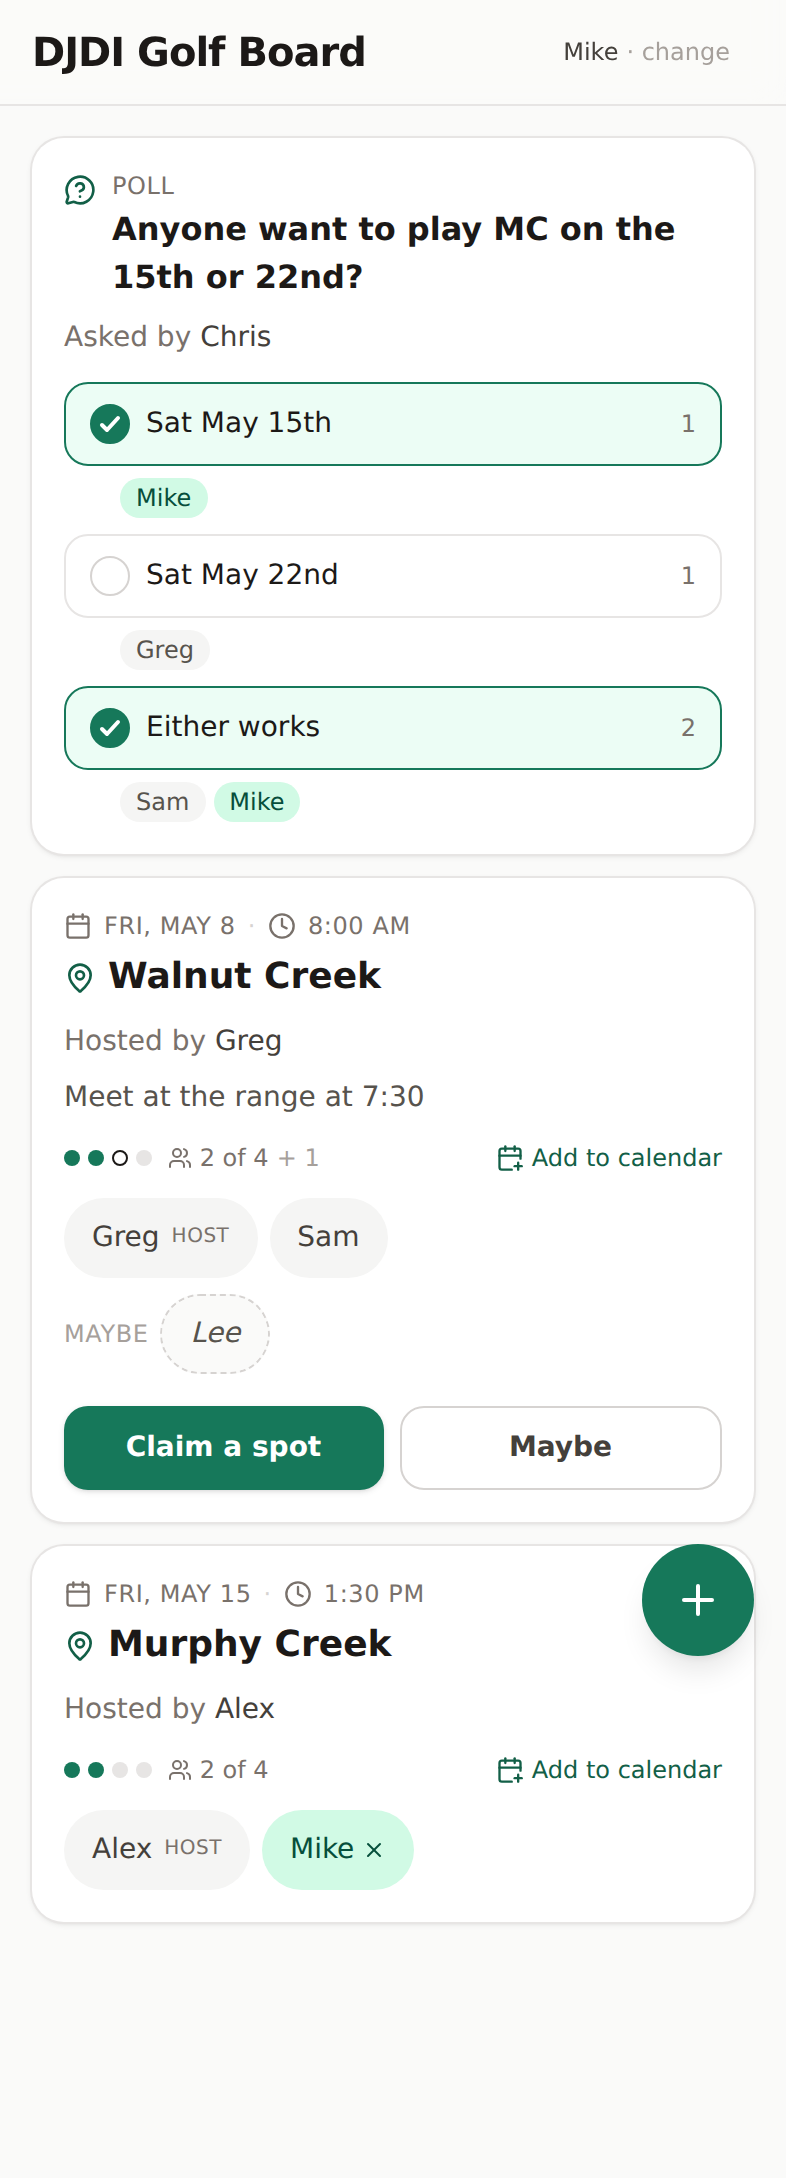
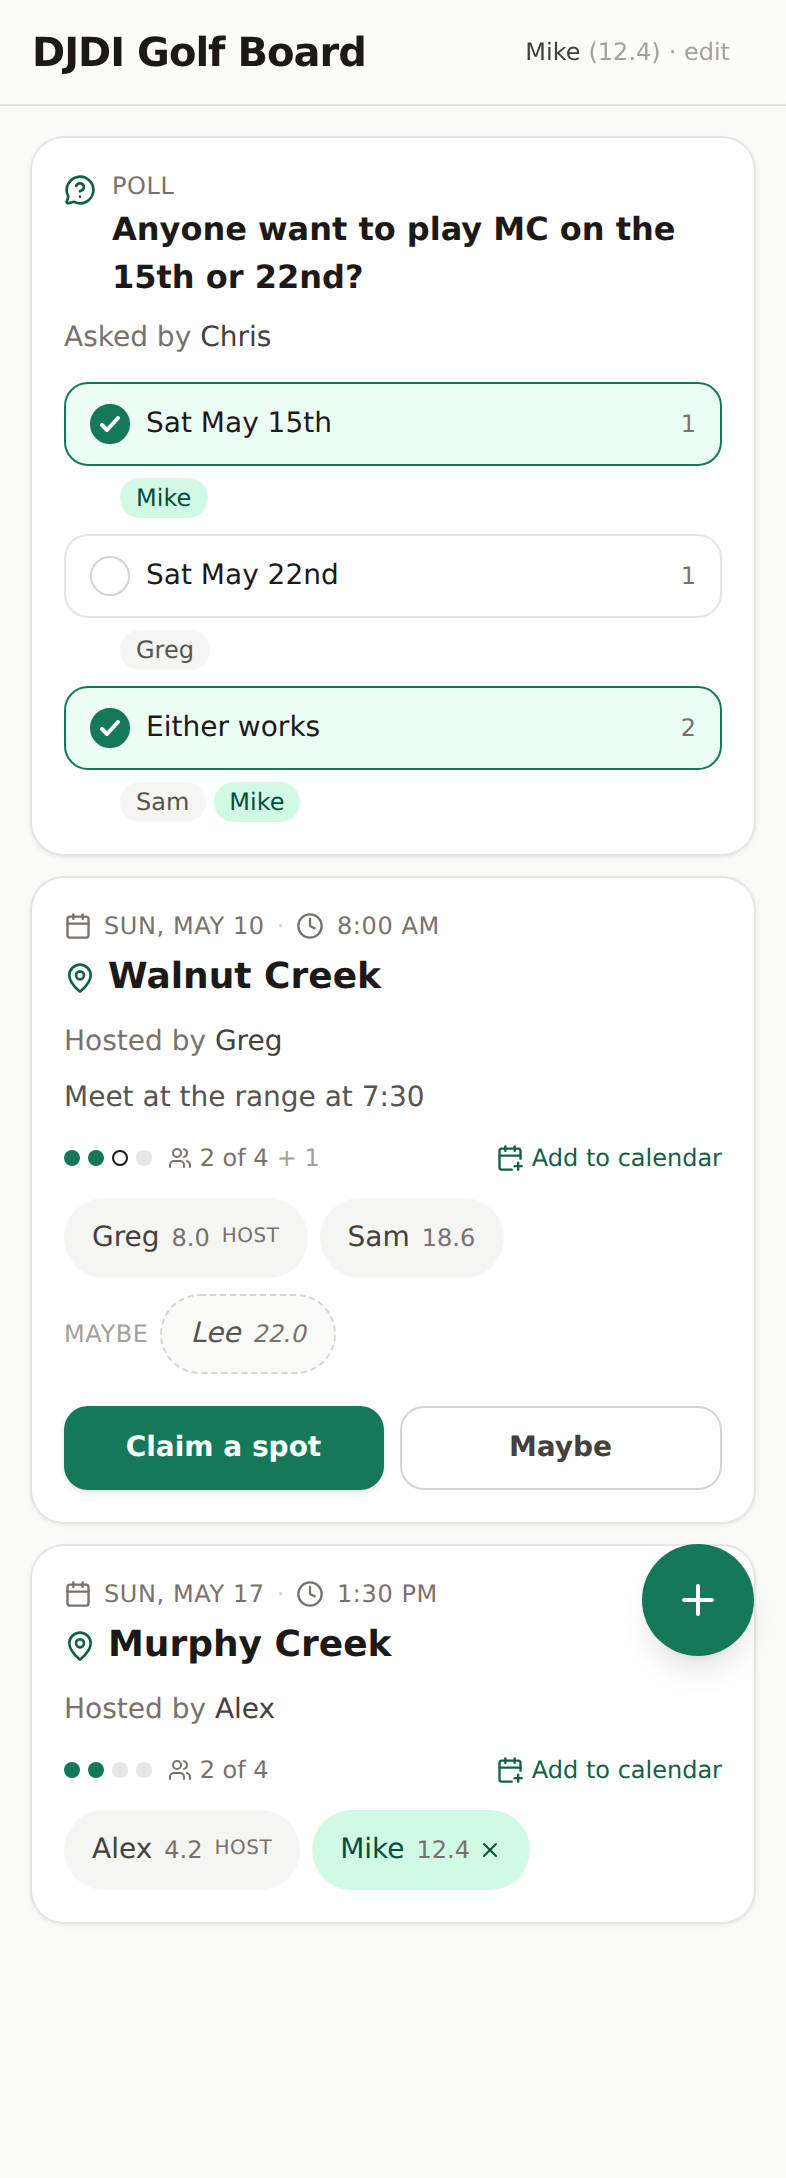
docs: Refresh screenshots for Phase 4 (handicaps, scores, standings)
Re-captures all 9 mobile screenshots after the Phase 4 features
landed. Updates SCREENSHOTS.md with two new shots:

- 08 — Standings card expanded, showing the new top-of-board
  leaderboard with handicap indices, sort chips, and a highlighted
  "me" row.
- 09 — Profile sheet open, showing the new handicap field and
  "Forget me on this device" action.

Existing shots (board / FAB / sheets / past) refresh to show the
new chip rendering ("Greg 8.0", "Sam 18.6", etc.), the renamed
header pill ("· edit" instead of "· change"), and the past cards'
new Scores block.

scripts/screenshots.ts now seeds the players table and inserts two
past tee times with full score sets so the Standings + Scores
panels actually have content. The 10th shot (record-scores sheet)
is best-effort — it consistently times out on a host-menu click in
headless mode and is wrapped in try/catch rather than blocking the
run.

https://claude.ai/code/session_0173k9V19kn8JeqqCc5oe1jH

diff --git a/scripts/screenshots.ts b/scripts/screenshots.ts
@@ -6,15 +6,25 @@ const BASE = "http://localhost:3000";
 const VIEWPORT = { width: 393, height: 852 }; // iPhone 14 Pro
 const OUT = path.resolve("screenshots");
 
-async function setNameInLocalStorage(page: import("playwright").Page, name: string) {
-  await page.evaluate((n) => {
-    localStorage.setItem("golf.coordinator.myName", n);
-  }, name);
+async function setProfileInLocalStorage(
+  page: import("playwright").Page,
+  name: string,
+  handicap: number | null
+) {
+  await page.evaluate(
+    ([n, h]) => {
+      localStorage.setItem("golf.coordinator.myName", n as string);
+      if (h != null) localStorage.setItem("golf.coordinator.myHandicap", String(h));
+      else localStorage.removeItem("golf.coordinator.myHandicap");
+    },
+    [name, handicap] as const
+  );
 }
 
-async function clearNameInLocalStorage(page: import("playwright").Page) {
+async function clearProfileInLocalStorage(page: import("playwright").Page) {
   await page.evaluate(() => {
     localStorage.removeItem("golf.coordinator.myName");
+    localStorage.removeItem("golf.coordinator.myHandicap");
   });
 }
 
@@ -50,18 +60,26 @@ async function main() {
   });
   const page = await context.newPage();
 
-  // 1. Empty state, no name
+  // 1. Empty state, no profile
   await page.goto(BASE);
-  await clearNameInLocalStorage(page);
+  await clearProfileInLocalStorage(page);
   await page.reload();
   await page.waitForSelector("text=Nothing on the board yet");
   await page.screenshot({ path: path.join(OUT, "01-empty-no-name.png") });
 
-  // 2. Empty state, with name set
-  await setNameInLocalStorage(page, "Mike");
+  // 2. Empty state, with profile set (Mike, 12.4)
+  await setProfileInLocalStorage(page, "Mike", 12.4);
   await page.reload();
   await page.waitForSelector("text=Nothing on the board yet");
   await page.screenshot({ path: path.join(OUT, "02-empty-with-name.png") });
+
+  // Seed players with handicaps so chips and standings have content.
+  await api("PUT", "/api/players/Greg", { handicap: 8.0 });
+  await api("PUT", "/api/players/Mike", { handicap: 12.4 });
+  await api("PUT", "/api/players/Sam", { handicap: 18.6 });
+  await api("PUT", "/api/players/Alex", { handicap: 4.2 });
+  await api("PUT", "/api/players/Lee", { handicap: 22.0 });
+  await api("PUT", "/api/players/Chris", { handicap: 9.5 });
 
   // Seed: a tee time and a poll
   const tt1 = await api("POST", "/api/teetimes", {
@@ -135,25 +153,74 @@ async function main() {
   await page.screenshot({ path: path.join(OUT, "06-new-poll-sheet.png"), fullPage: true });
   await page.keyboard.press("Escape");
 
-  // 7. Past tee times: insert a past row directly
+  // 7. Past tee times with scores recorded — insert two past rows directly
+  // and seed scores so the past card has a Scores block AND the standings
+  // card has content.
   const sqlite3 = await import("better-sqlite3");
   const db = new (sqlite3 as any).default("golf_coordinator.db");
   db.prepare(
-    `INSERT INTO tee_times (id, course, date, time, spots, host, notes, claims, interested, created_at)
-     VALUES (?, 'Old Course', '2024-01-01', '09:00', 4, 'Greg', NULL,
-             '[{"name":"Greg","claimedAt":"2024-01-01T00:00:00Z"},{"name":"Mike","claimedAt":"2024-01-01T00:00:00Z"}]',
-             '[]', '2024-01-01T00:00:00Z')`
+    `INSERT INTO tee_times (id, course, date, time, spots, host, notes, claims, interested, scores, created_at)
+     VALUES (?, 'Walnut Creek', '2024-09-15', '08:00', 4, 'Greg', NULL,
+             '[{"name":"Greg","claimedAt":"2024-09-15T00:00:00Z"},{"name":"Mike","claimedAt":"2024-09-15T00:00:00Z"},{"name":"Sam","claimedAt":"2024-09-15T00:00:00Z"},{"name":"Alex","claimedAt":"2024-09-15T00:00:00Z"}]',
+             '[]',
+             '[{"name":"Greg","gross":80,"recordedAt":"2024-09-15T13:00:00Z"},{"name":"Mike","gross":91,"recordedAt":"2024-09-15T13:00:00Z"},{"name":"Sam","gross":102,"recordedAt":"2024-09-15T13:00:00Z"},{"name":"Alex","gross":76,"recordedAt":"2024-09-15T13:00:00Z"}]',
+             '2024-09-15T00:00:00Z')`
   ).run("past-1");
+  db.prepare(
+    `INSERT INTO tee_times (id, course, date, time, spots, host, notes, claims, interested, scores, created_at)
+     VALUES (?, 'Murphy Creek', '2024-10-05', '13:30', 4, 'Alex', NULL,
+             '[{"name":"Alex","claimedAt":"2024-10-05T00:00:00Z"},{"name":"Greg","claimedAt":"2024-10-05T00:00:00Z"},{"name":"Chris","claimedAt":"2024-10-05T00:00:00Z"}]',
+             '[]',
+             '[{"name":"Alex","gross":74,"recordedAt":"2024-10-05T18:00:00Z"},{"name":"Greg","gross":78,"recordedAt":"2024-10-05T18:00:00Z"},{"name":"Chris","gross":86,"recordedAt":"2024-10-05T18:00:00Z"}]',
+             '2024-10-05T00:00:00Z')`
+  ).run("past-2");
   db.close();
 
   await page.reload();
   await page.locator("text=Past tee times").click();
-  await page.waitForSelector("text=Old Course");
+  await page.waitForSelector("text=Walnut Creek").catch(() => {});
   await page.screenshot({ path: path.join(OUT, "07-past-section-expanded.png"), fullPage: true });
 
-  // 8. Access gate (set ACCESS_CODE → reload)
-  // Skipping this in the unified script — the server already booted without it.
-  // We capture this in a separate run instead.
+  // 8. Standings expanded
+  await page.locator("button:has-text('Standings')").click();
+  await page.waitForSelector("text=Avg net");
+  await page.screenshot({ path: path.join(OUT, "08-standings-expanded.png"), fullPage: true });
+
+  // 9. Profile sheet open (handicap field visible)
+  await page.locator("button[aria-label*='Playing as']").click();
+  await page.waitForSelector("text=Your profile");
+  await page.screenshot({ path: path.join(OUT, "09-profile-sheet.png"), fullPage: true });
+  await page.keyboard.press("Escape");
+
+  // 10. Record scores sheet — set name to the host of the past round, open
+  // the host menu on the past card, click Edit scores. Best-effort: if the
+  // menu can't be opened in headless mode we just skip this shot rather
+  // than fail the whole run.
+  try {
+    await setProfileInLocalStorage(page, "Greg", 8);
+    await page.reload();
+    await page.locator("text=Past tee times").first().click();
+    await page.waitForSelector("text=Walnut Creek", { timeout: 5000 });
+    const pastWalnutCard = page
+      .locator("article", { hasText: "Walnut Creek" })
+      .filter({ hasText: "Hosted by Greg" })
+      .first();
+    await pastWalnutCard.scrollIntoViewIfNeeded();
+    await pastWalnutCard
+      .locator("button[aria-label='Host options']")
+      .click({ timeout: 5000 });
+    await page
+      .locator("button", { hasText: /(Edit|Record) scores/ })
+      .first()
+      .click({ timeout: 5000 });
+    await page.waitForSelector("text=Save scores", { timeout: 5000 });
+    await page.screenshot({
+      path: path.join(OUT, "10-record-scores-sheet.png"),
+      fullPage: true,
+    });
+  } catch (err) {
+    console.warn("Skipped screenshot 10 (record scores sheet):", (err as Error).message);
+  }
 
   await browser.close();
   console.log("Saved screenshots to", OUT);

diff --git a/SCREENSHOTS.md b/SCREENSHOTS.md
@@ -3,92 +3,92 @@
 Real screenshots of the running app, captured at iPhone 14 Pro viewport
 (393 × 852 @ 2x) by [`scripts/screenshots.ts`](./scripts/screenshots.ts) via
 Playwright. The script boots the production build (`NODE_ENV=production
-npx tsx server.ts` after `npm run build`), seeds a fixture set of tee
-times and a poll via the public API, and drives the UI through each state.
+npx tsx server.ts` after `npm run build`), seeds a fixture set of
+players, tee times, polls, and past scores via the public API, and drives
+the UI through each state.
 
 To regenerate after UI changes:
 
 ```bash
+npm install --no-save playwright   # only if not already installed
 npm run build
-NODE_ENV=production npx tsx server.ts &   # leave running
+NODE_ENV=production npx tsx server.ts &
 PLAYWRIGHT_BROWSERS_PATH=/opt/pw-browsers npx tsx scripts/screenshots.ts
 ```
 
 ---
 
-## 1. Empty board, no name set
+## 1. Empty board, no profile
 
-First-time landing. The name prompt card is the primary affordance; below
-it is the empty-state card with the flag icon. The collapsed "Past tee
-times" section is from the seeded historical row used for shot 7.
+First-time landing. The name prompt asks for a name plus an optional
+handicap (same number you have in GHIN). Below it is the empty-state
+card with the flag icon.
 
 ![empty no name](./screenshots/01-empty-no-name.png)
 
-## 2. Empty board, name remembered
+## 2. Empty board, profile set
 
-After saving a name, the prompt disappears and the header shows
-"Mike · change" as a single tappable pill (the whole thing is the tap
-target — not just the word "change").
+After saving, the prompt disappears and the header shows
+"Mike (12.4) · edit" — the whole pill is the tap target for opening
+the profile sheet.
 
 ![empty with name](./screenshots/02-empty-with-name.png)
 
 ## 3. Populated board
 
-Top-down: poll card with three options (checkmarks on Mike's two picks,
-vote counts on the right, name chips below each option), then two
-tee-time cards. The Walnut Creek card shows everything at once — date
-strip, course title with map pin, host line, notes, the spots indicator
-(2 filled, 1 outlined for "+1 maybe", 1 empty), "Add to calendar" on
-the same row, claimed chips, the dashed "MAYBE" row with Lee, and the
-equal-width "Claim a spot" / "Maybe" action peers.
+Top-down: Standings card (collapsed by default once there are scores in
+the system), poll card, then upcoming tee-time cards. Each player chip
+shows the handicap inline ("Greg 8.0", "Sam 18.6"). The maybe row
+shows "Lee 22.0" in dashed-italic style. Equal-width Claim/Maybe peers.
 
 ![populated board](./screenshots/03-populated-board.png)
 
 ## 4. FAB chooser open
 
-Tapping the FAB rotates the `+` to an `x` and reveals two stacked
-pills — "New tee time" and "Ask the group" — each on a single line.
+The `+` rotates to `×` and reveals two stacked pills — "New tee time"
+and "Ask the group" — each on a single line.
 
 ![fab chooser](./screenshots/04-fab-chooser-open.png)
 
 ## 5. New tee time bottom sheet
 
-Form: course (with `<datalist>` autocomplete from past entries), date +
-time on a 2-col grid, total spots + host on a 2-col grid, optional
-notes. Native iOS-style date/time pickers. The sheet caps at
-`100dvh - 1rem` and scrolls when the keyboard pushes it.
+Form: course (with autocomplete from past entries), date + time, total
+spots + host, optional notes. Native iOS-style date/time pickers.
 
 ![new tee time sheet](./screenshots/05-new-teetime-sheet.png)
 
 ## 6. New poll bottom sheet ("Ask the group")
 
 Question + dynamic 2-8 options + asker. Each option row has its own
-remove `X` (only after the minimum 2 are present). The asker name
-input also pulls from the autocomplete list.
+remove `X` (only after the minimum 2 are present).
 
 ![new poll sheet](./screenshots/06-new-poll-sheet.png)
 
 ## 7. Past tee times expanded
 
-A row inserted directly via SQLite to demonstrate the past section.
-Past cards render at `opacity-60`, no claim/drop/edit/delete actions —
-the chips are not interactive (no `X`, no rose hover) thanks to the
-`PlayerChip` interactive flag added in the UX pass.
+Past cards render at `opacity-60`. When scores have been recorded for
+the round, a **Scores** block appears below the chips listing each
+player's gross + net (gross − handicap), sorted by net (lowest first).
+Past chips are not interactive — no `X` on your own chip, no rose
+hover.
 
 ![past expanded](./screenshots/07-past-section-expanded.png)
 
----
+## 8. Standings expanded
 
-## Known polish-pass follow-ups visible here
+Aggregates every recorded score into a per-player leaderboard.
+Sortable by Avg net (default), Avg gross, or Rounds. Best column shows
+best-net or best-gross to match the active sort. Current user's row
+gets a fairway-50 highlight. Players with no recorded handicap fall to
+the bottom under the Avg net sort and show only gross stats.
 
-These are visible in the screenshots and worth fixing in another pass:
+![standings expanded](./screenshots/08-standings-expanded.png)
 
-- **Chooser overlap**: when the FAB chooser is open over a tee-time
-  card, the pills sit on top of the action buttons. Could shift up or
-  add a backdrop to make it feel intentional.
-- **PollCard "Poll" eyebrow + icon**: minor — the icon top-aligns with
-  the "POLL" eyebrow rather than visually centering with the prompt
-  title; may want to bump the icon down a few pixels.
-- **iOS date picker formatting**: the native picker shows "05/07/2026"
-  in the form — matches the OS, can't override without a custom date
-  input.
+## 9. Profile sheet
+
+Name + Handicap (GHIN index, optional, -10 to +54). Saves both
+locally (so the device remembers) and globally (so every chip in the
+group can show the index). "Forget me on this device" clears the
+local copy without touching the server record.
+
+![profile sheet](./screenshots/09-profile-sheet.png)
